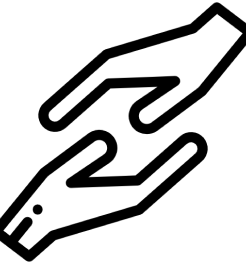
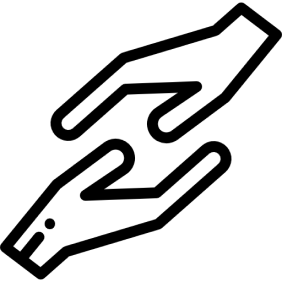
#5 design:Update btn

diff --git a/client/src/components/organisms/HomeLayoutElder.tsx b/client/src/components/organisms/HomeLayoutElder.tsx
@@ -48,9 +48,9 @@ const pages: {
 
 const StyledBtn = styled.img`
   
-    width: 200px;
-    height: 200px;
-  
+    width: 140px;
+    height: 140px;
+    margin: 20px;
     }
 `;
 
